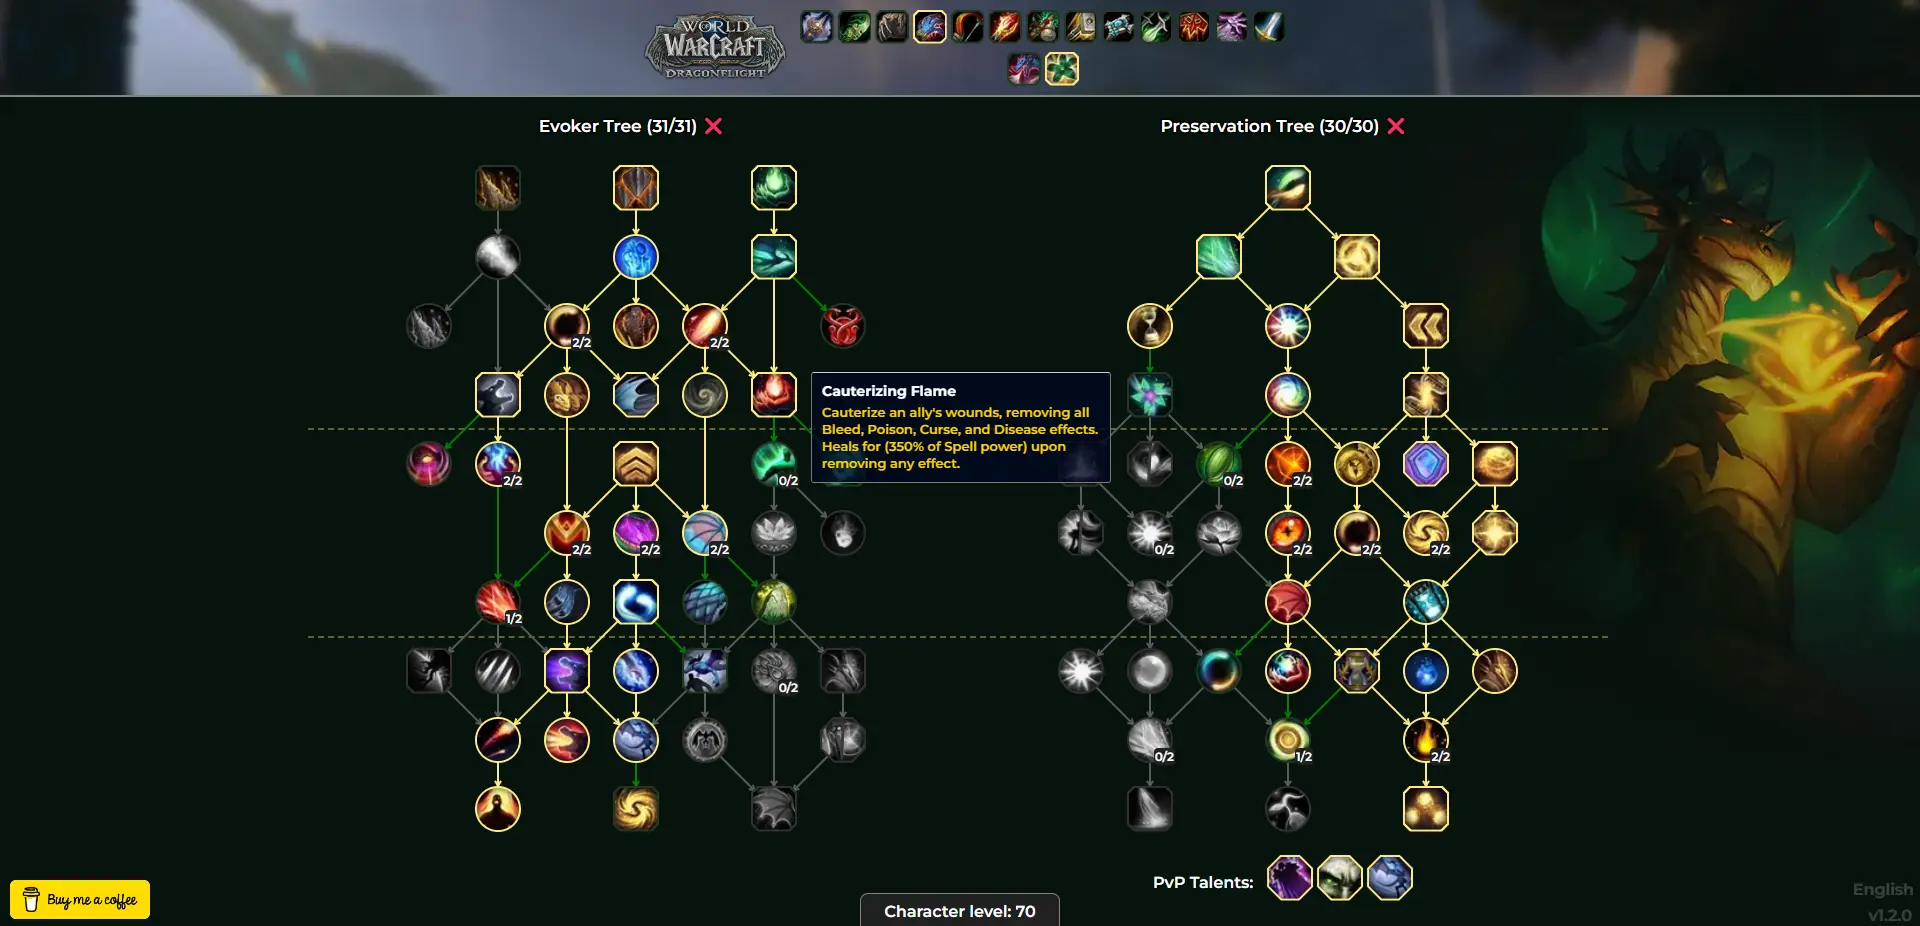
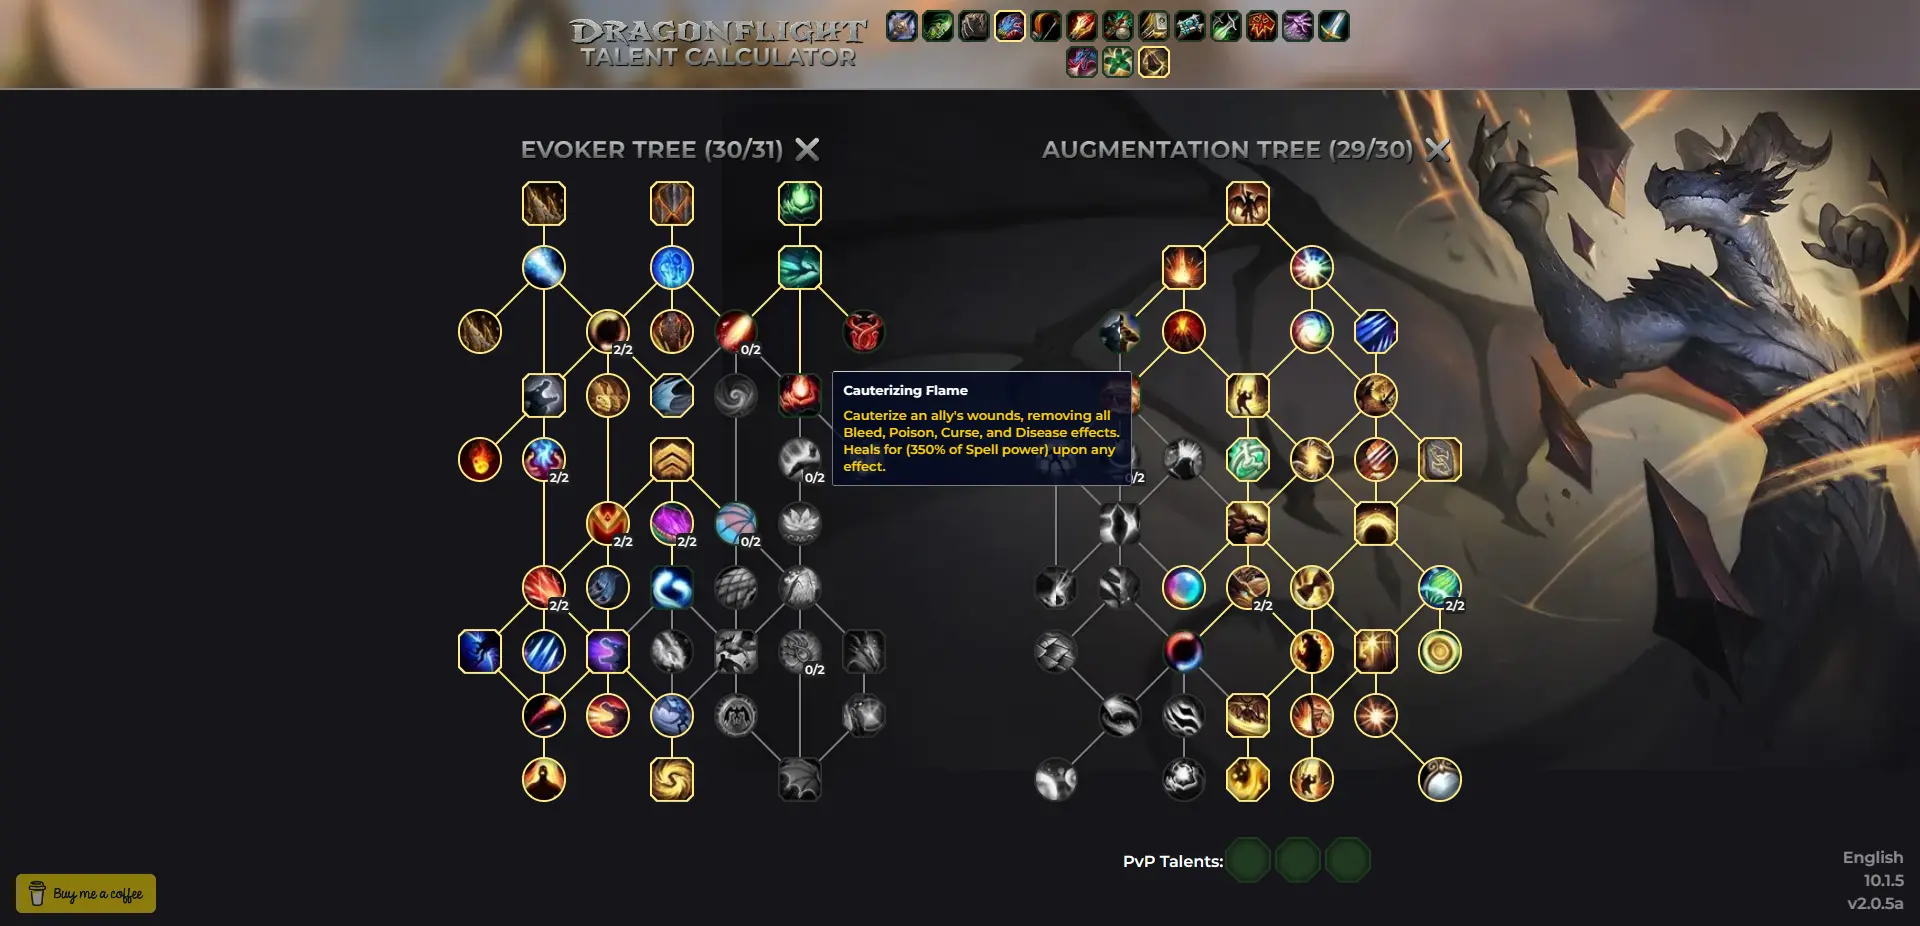
v2.0.5a
Small fixes

diff --git a/src/components/Talent.vue b/src/components/Talent.vue
@@ -1,4 +1,5 @@
 <script setup lang="ts">
+import type { TooltipType } from '@/models/tooltipType'
 import type { Talent, PvpTalentInterface } from './Talent'
 import { useTooltipText } from '@/stores/tooltiptext'
 import { computed } from 'vue';
@@ -13,15 +14,25 @@ function click(event: MouseEvent) {
   if (unavailable.value || !props.talent.countable) return
   if (event.button != 0 && event.button != 2) return
   if (event.button == 0 && props.left == 0) return
-  const rank = event.button == 0? 1: -1
+  const rank = event.button == 0 ? 1 : -1
   props.talent.addRank(rank)
+  updateTooltip()
 }
 
 const tooltip = useTooltipText()
 
+function updateTooltip() {
+  const tooltips: TooltipType[] = []
+  if (props.talent.type != 'octagon' || [0, 1].includes(props.talent.learned))
+    tooltips.push({ title: props.talent.title, descr: props.talent.descr })
+  if (props.talent.type == 'octagon' && [0, 2].includes(props.talent.learned))
+    tooltips.push({ title: props.talent.title2 || '', descr: props.talent.descr2 || '' })
+  tooltip.set(tooltips)
+}
+
 function showTooltip(e: MouseEvent) {
   const target = e.target as HTMLDivElement
-  tooltip.set(props.talent.title, props.talent.descr)
+  updateTooltip()
   tooltip.position(target.getBoundingClientRect())
 }
 
@@ -45,9 +56,9 @@ const learned = computed(() => {
     gridColumnStart: talent.col,
     gridRowStart: talent.row
   }">
-    <div v-if="talent.type != 'octagon'" class="talent-wrapper" :class="[talent.type, { learned: learned }, { gray: unavailable }]" @click.prevent="e => click(e)" @contextmenu.prevent="e => click(e)" @mouseenter="e =>showTooltip(e)" @mouseleave="e =>hideTooltip()">
+    <div v-if="talent.type != 'octagon'" class="talent-wrapper" :class="[talent.type, { learned: learned }, { gray: unavailable }]" @click.prevent="e => click(e)" @contextmenu.prevent="e => click(e)" @mouseenter="e => showTooltip(e)" @mouseleave="e => hideTooltip()">
       <div class="talent" :class="talent.type" :style="{
-        backgroundImage: `url(https://icons.wowdb.com/beta/medium/${talent.image}.jpg)`
+        backgroundImage: `url(https://icons.wowdb.com/ptr/medium/${talent.image}.jpg)`
       }">
       </div>
       <div v-if="talent.ranks > 1" class="rank">{{ talent.learned }}/{{ talent.ranks }}</div>
@@ -55,12 +66,11 @@ const learned = computed(() => {
 
     <div v-if="talent.type == 'octagon'" class="talent-wrapper" :class="[talent.type, { learned: learned }, { gray: unavailable }]" @click.prevent="e => click(e)" @contextmenu.prevent="e => click(e)" @mouseenter="e => showTooltip(e)" @mouseleave="e => hideTooltip()">
       <div v-show="talent.learned != 2" class="talent octagon" :class="{ first: talent.learned != 1 }" :style="{
-        backgroundImage: `url(https://icons.wowdb.com/beta/medium/${talent.image}.jpg)`
+        backgroundImage: `url(https://icons.wowdb.com/ptr/medium/${talent.image}.jpg)`
       }"></div>
       <div v-show="talent.learned != 1" class="talent octagon" :class="{ second: talent.learned != 2 }" :style="{
-        backgroundImage: `url(https://icons.wowdb.com/beta/medium/${talent.image2}.jpg)`
-      }">
-      </div>
+        backgroundImage: `url(https://icons.wowdb.com/ptr/medium/${talent.image2}.jpg)`
+      }"></div>
     </div>
   </div>
 </template>

diff --git a/src/components/Tree.ts b/src/components/Tree.ts
@@ -1,6 +1,7 @@
 import { Talent, PvPTalent, type PvpTalentInterface, type TalentInterface } from "./Talent"
 
 export class Tree {
+  version: number = 2
   class: string = ''
   spec: string = ''
   talents: Array<Talent> = []
@@ -13,12 +14,13 @@ export class Tree {
   }
 
   setTree(rawTree: TreeInterface) {
+    this.version = rawTree.version || 1
     this.class = rawTree.class
     this.title = rawTree.title
     this.spec = rawTree.spec
     this.points = rawTree.spec == 'class' ? 31 : 30
 
-    this.talents = rawTree.talents.map(talent => new Talent(talent))
+    this.talents = rawTree.talents.map(talent => new Talent(talent, this.version))
 
     this.talents.forEach(tal => {
       tal.childrenIds?.forEach(id => {
@@ -56,8 +58,16 @@ export class Tree {
 
   replace(talents: Array<TalentInterface>) {
     talents.forEach(rawTalent => {
-      const col = rawTalent.col * 2 + 1
-      const row = rawTalent.row + 1
+      let col = 0
+      let row = 0
+      if (this.version == 2) {
+        col = rawTalent.col
+        row = rawTalent.row
+      }
+      else {
+        col = rawTalent.col * 2 + 1
+        row = rawTalent.row + 1
+      }
       const talent = this.talents.find(t => t.col == col && t.row == row)
       if (!talent) return
       talent.replace(rawTalent)
@@ -67,8 +77,16 @@ export class Tree {
   setDefault(talents: DefaultTalents[]) {
     this.talents.forEach(t => t.countable = true)
     talents.forEach(tal => {
-      const col = tal.col * 2 + 1
-      const row = tal.row + 1
+      let col = 0
+      let row = 0
+      if (this.version == 2) {
+        col = tal.col
+        row = tal.row
+      }
+      else {
+        col = tal.col * 2 + 1
+        row = tal.row + 1
+      }
       const talent = this.talents.find(t => t.col == col && t.row == row)
       if (!talent) return
       talent.countable = false
@@ -78,6 +96,7 @@ export class Tree {
 }
 
 export interface TreeInterface {
+  version?: number
   class: string
   spec: string
   talents: Array<TalentInterface>

diff --git a/src/components/Header.vue b/src/components/Header.vue
@@ -56,7 +56,7 @@ const showedClasses = computed<{ [key: string]: string[] }>(() => {
         <div class="class" v-for="(specs, cls) in showedClasses">
           <div class="talent-wrapper" :class="{ learned: cls == selectedClass }" @click="selectedClass = `${cls}`">
             <div class="talent" :style="{
-              backgroundImage: `url(https://icons.wowdb.com/beta/medium/${classImages[`${cls}_class`]}.jpg)`
+              backgroundImage: `url(https://icons.wowdb.com/ptr/medium/${classImages[`${cls}_class`]}.jpg)`
             }">
             </div>
           </div>
@@ -68,7 +68,7 @@ const showedClasses = computed<{ [key: string]: string[] }>(() => {
           <RouterLink :to="`/classes/${selectedClass}/${spec}`">
             <div class="talent-wrapper" :class="{ learned: route.params.spec == spec }">
               <div class="talent" :style="{
-                backgroundImage: `url(https://icons.wowdb.com/beta/medium/${classImages[`${selectedClass}_${spec}`]}.jpg)`
+                backgroundImage: `url(https://icons.wowdb.com/ptr/medium/${classImages[`${selectedClass}_${spec}`]}.jpg)`
               }">
               </div>
             </div>
@@ -84,7 +84,7 @@ const showedClasses = computed<{ [key: string]: string[] }>(() => {
           <RouterLink :to="`/professions/${prof}`">
             <div class="talent-wrapper" :class="{ learned: route.params.prof == prof }">
               <div class="talent" :style="{
-                backgroundImage: `url(https://icons.wowdb.com/beta/medium/${professions[prof]}.jpg)`
+                backgroundImage: `url(https://icons.wowdb.com/ptr/medium/${professions[prof]}.jpg)`
               }">
               </div>
             </div>

diff --git a/src/components/PvPList.vue b/src/components/PvPList.vue
@@ -34,7 +34,7 @@ function selectTalent(talent: PvPTalent) {
 
 function showTooltip(talent: PvPTalent,e: MouseEvent) {
   const target = e.target as HTMLDivElement
-  tooltip.set(talent.title, talent.descr)
+  tooltip.set([{title: talent.title, descr: talent.descr}])
   tooltip.position(target.getBoundingClientRect())
 }
 
@@ -55,7 +55,7 @@ function hideTooltip() {
       <div class="selected-pvp" @click="showList = !showList">
         <div class="talent-wrapper octagon" v-for="talent of selected" @mouseenter="e => showTooltip(talent, e)" @mouseleave="e => hideTooltip()">
           <div class="talent" :style="{
-            backgroundImage: `url(https://icons.wowdb.com/beta/medium/${talent.image}.jpg)`
+            backgroundImage: `url(https://icons.wowdb.com/ptr/medium/${talent.image}.jpg)`
           }">
           </div>
         </div>
@@ -64,7 +64,7 @@ function hideTooltip() {
         <div class="pvp-talent" v-for="talent of talents" :class="{ 'selected': talent.learned }" @click="selectTalent(talent)" @mouseenter="e => showTooltip(talent, e)" @mouseleave="e => hideTooltip()">
           <div class="talent-wrapper octagon" :class="{ learned: talent.learned }">
             <div class="talent" :style="{
-              backgroundImage: `url(https://icons.wowdb.com/beta/medium/${talent.image}.jpg)`
+              backgroundImage: `url(https://icons.wowdb.com/ptr/medium/${talent.image}.jpg)`
             }">
             </div>
           </div>

diff --git a/src/components/ProfessionTalent.vue b/src/components/ProfessionTalent.vue
@@ -9,7 +9,7 @@ const props = defineProps<{
 const tooltip = useTooltipText()
 
 function showTooltip(e: MouseEvent) {
-  tooltip.set(props.talent.title, props.talent.descr)
+  tooltip.set([{ title: props.talent.title, descr: props.talent.descr }])
   const target = e.target as HTMLDivElement
   tooltip.position(target.getBoundingClientRect())
 }
@@ -24,14 +24,14 @@ function hideTooltip() {
     top: `${talent.top}%`,
     left: `${talent.left}%`
   }">
-    <div class="prof-talent-progress" :style="{ backgroundImage: `conic-gradient(green ${talent.ranksLearned/talent.ranks*360}deg, rgb(54, 54, 51) 0deg)` }">
+    <div class="prof-talent-progress" :style="{ backgroundImage: `conic-gradient(green ${talent.ranksLearned / talent.ranks * 360}deg, rgb(54, 54, 51) 0deg)` }">
       <div class="prof-talent" :style="{
-        backgroundImage: `url(https://icons.wowdb.com/beta/medium/${talent.image}.jpg)`
+        backgroundImage: `url(https://icons.wowdb.com/ptr/medium/${talent.image}.jpg)`
         // backgroundImage: `url('/img/placeholder-talent.png')`
       }">
       </div>
     </div>
-    <!-- <img :src="`https://icons.wowdb.com/beta/medium/${talent.image}.jpg`"> -->
+    <!-- <img :src="`https://icons.wowdb.com/ptr/medium/${talent.image}.jpg`"> -->
   </div>
 </template>
 

diff --git a/src/components/Talent.ts b/src/components/Talent.ts
@@ -16,7 +16,7 @@ class Talent {
   parents: Talent[] = []
   countable: boolean
 
-  constructor(rawTalent: TalentInterface) {
+  constructor(rawTalent: TalentInterface, version: number) {
     this.id = rawTalent.id
     this.title = rawTalent.title
     this.descr = rawTalent.descr
@@ -26,8 +26,14 @@ class Talent {
       this.descr2 = rawTalent.descr2
       this.image2 = rawTalent.image2
     }
-    this.col = rawTalent.col * 2 + 1 + (rawTalent.shiftRight ? 1 : 0)
-    this.row = rawTalent.row + 1
+    if (version == 2) {
+      this.col = rawTalent.col
+      this.row = rawTalent.row
+    }
+    else {
+      this.col = rawTalent.col * 2 + 1 + (rawTalent.shiftRight ? 1 : 0)
+      this.row = rawTalent.row + 1
+    }
     this.type = rawTalent.type
     this.ranks = rawTalent.ranks
     this.children = []
@@ -50,6 +56,7 @@ class Talent {
     }
     if (this.learned + rank > this.ranks || this.learned + rank < 0) return
     this.learned += rank
+    
     if ((this.type == 'octagon' && this.learned == 0) || (this.type != 'octagon' && this.learned != this.ranks))
       this.children?.forEach(child => child.addRank(-child.learned, true))
   }

diff --git a/src/components/Wheel.vue b/src/components/Wheel.vue
@@ -13,7 +13,7 @@ const tooltip = useTooltipText()
 
 function showTooltip(e: MouseEvent) {
   if (!props.talent) return
-  tooltip.set(props.talent.title, props.talent.descr)
+  tooltip.set([{title: props.talent.title, descr: props.talent.descr}])
   const target = e.target as HTMLDivElement
   tooltip.position(target.getBoundingClientRect())
 }
@@ -76,7 +76,7 @@ function dividerPos() {
         <div class="small-roll anim" :class="{ learned: talent?.learned }"></div>
         <div class="wheel-talent-wrapper">
           <div v-if="talent" class="prof-talent" @mouseenter="e => showTooltip(e)" @mouseleave="e => hideTooltip()" :style="{
-            backgroundImage: `url('https://icons.wowdb.com/beta/medium/${talent.image}.jpg')`
+            backgroundImage: `url('https://icons.wowdb.com/ptr/medium/${talent.image}.jpg')`
           }">
             <div class="lock" v-show="!talent.learned"></div>
           </div>

diff --git a/src/stores/tooltiptext.ts b/src/stores/tooltiptext.ts
@@ -1,12 +1,11 @@
 import { ref } from 'vue'
 import { defineStore } from 'pinia'
+import type { TooltipType } from '@/models/tooltipType'
 
 export const useTooltipText = defineStore('tooltipText', () => {
-  const title = ref('')
-  const descr = ref('')
-  function set(t: string, d: string) {
-    title.value = t
-    descr.value = d
+  const tooltips = ref<TooltipType[]>([])
+  function set(data: TooltipType[]) {
+    tooltips.value = data
 
     show()
   }
@@ -38,5 +37,5 @@ export const useTooltipText = defineStore('tooltipText', () => {
     top.value = `${pos.top - 4}px`
   }
 
-  return { title, descr, set, state, show, hide, position, top, left }
+  return { tooltips, set, state, show, hide, position, top, left }
 })

diff --git a/src/components/Tooltip.vue b/src/components/Tooltip.vue
@@ -5,9 +5,12 @@ const tooltip = useTooltipText()
 </script>
 
 <template>
-  <div :class="!tooltip.state?'hide':''" class="tooltip" :style="{top: tooltip.top, left: tooltip.left}">
-    <h4>{{ tooltip.title }}</h4>
-    <div>{{ tooltip.descr }}</div>
+  <div :class="!tooltip.state ? 'hide' : ''" class="tooltip" :style="{ top: tooltip.top, left: tooltip.left }">
+    <template v-for="(tt, i) of tooltip.tooltips">
+      <h4>{{ tt.title }}</h4>
+      <div>{{ tt.descr }}</div>
+      <hr v-if="i != tooltip.tooltips.length - 1">
+    </template>
   </div>
 </template>
 
@@ -58,5 +61,9 @@ const tooltip = useTooltipText()
 
 .tooltip.hide {
   opacity: 0;
+}
+
+hr {
+  margin: 12px 0;
 }
 </style>

diff --git a/src/components/Version.vue b/src/components/Version.vue
@@ -29,7 +29,7 @@ const versions = ['10.0.2', '10.0.5', '10.0.7', '10.1', '10.1.5']
     <select v-model="version.version">
       <option v-for="v of versions" :value="v">{{ v }}</option>
     </select>
-    <a href="https://github.com/ginpachi987/wow-df-talent-calculator/" target="_blank">v2.0.5</a>
+    <a href="https://github.com/ginpachi987/wow-df-talent-calculator/" target="_blank">v2.0.5a</a>
   </div>
 </template>
 

diff --git a/src/components/ProfessionPip.vue b/src/components/ProfessionPip.vue
@@ -19,7 +19,7 @@ const left = computed(() => `${50 - Math.sin(angle.value) * 56}%`)
 // const angle = ''
 
 function showTooltip(e: MouseEvent) {
-  tooltip.set(props.talent.descr, '')
+  tooltip.set([{title: props.talent.descr, descr: ''}])
   const target = e.target as HTMLDivElement
   tooltip.position(target.getBoundingClientRect())
 }

diff --git a/src/assets/style.scss b/src/assets/style.scss
@@ -71,8 +71,11 @@ a {
   text-decoration: none;
 }
 
-.p10_0_2, .p10_0_5, .p10_0_7 {
+.p10_0_2, .p10_0_5 {
   background-image: url('/img/bg10.0.webp');
+}
+.p10_0_7 {
+  background-image: url('/img/bg10.0.7.webp');
 }
 .p10_1 {
   background-image: url('/img/bg10.1.webp');
